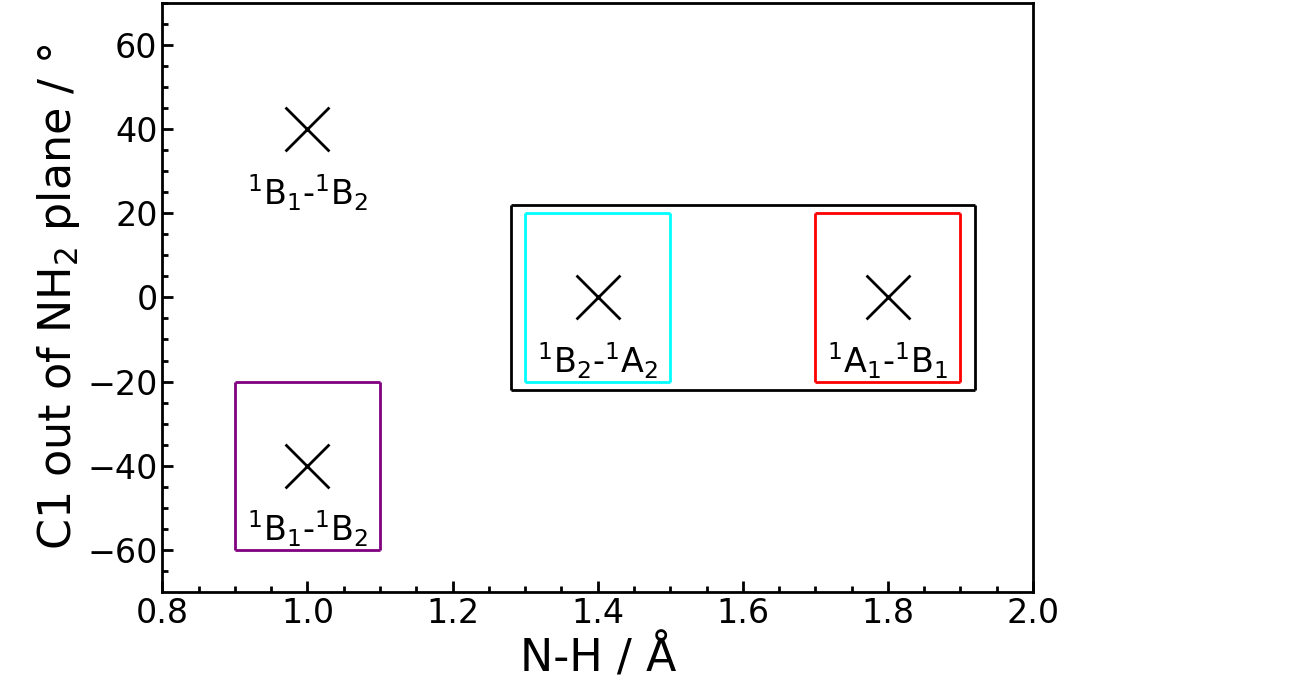
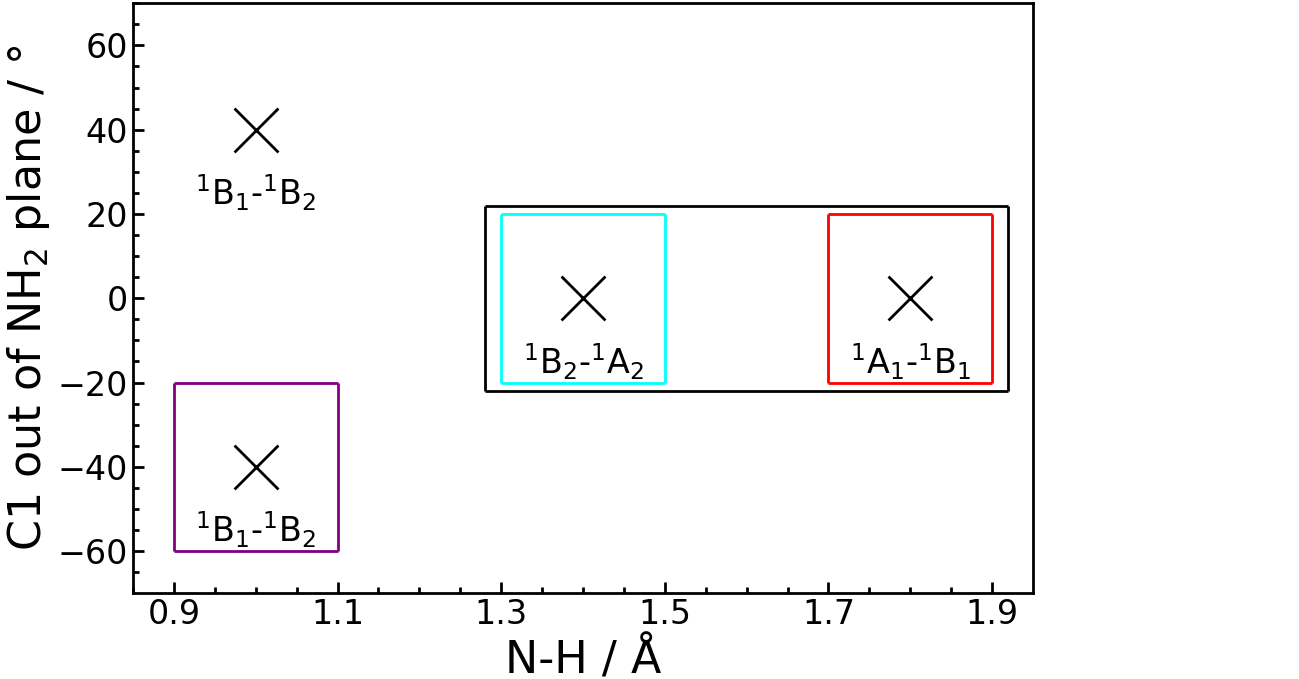
change x ticks

diff --git a/diabatz/analysis/loop/other-loops/plot_double.py b/diabatz/analysis/loop/other-loops/plot_double.py
@@ -34,12 +34,14 @@ ax.vlines(1.9, -60 - dy,  60 + dy, colors="black", linewidth=2)
 ax.set_xlabel("N-H / Å"                   , fontsize=32)
 ax.set_ylabel("C1 out of NH$_2$ plane / °", fontsize=32)
 
-ax.set_xlim(0.8, 2.0)
+ax.set_xlim(0.85, 1.95)
 ax.set_ylim(-70, 70)
+
+ax.set_xticks((0.9, 1.1, 1.3, 1.5, 1.7, 1.9))
 
 ax.minorticks_on()
 
-for side in ("top", "bottom", "left", "right"): ax.spines[side].set_linewidth(1.5)
+for side in ("top", "bottom", "left", "right"): ax.spines[side].set_linewidth(2)
 
 ax.tick_params(direction="in", length=8, width=2, labelsize=24)
 ax.tick_params(direction="in", length=4, width=2, which="minor")

diff --git a/diabatz/analysis/loop/other-loops/plot_single.py b/diabatz/analysis/loop/other-loops/plot_single.py
@@ -34,12 +34,14 @@ ax.vlines(1.9, -20 - dy,  60 + dy, colors="black", linewidth=2)
 ax.set_xlabel("N-H / Å"                   , fontsize=32)
 ax.set_ylabel("C1 out of NH$_2$ plane / °", fontsize=32)
 
-ax.set_xlim(0.8, 2.0)
+ax.set_xlim(0.85, 1.95)
 ax.set_ylim(-70, 70)
+
+ax.set_xticks((0.9, 1.1, 1.3, 1.5, 1.7, 1.9))
 
 ax.minorticks_on()
 
-for side in ("top", "bottom", "left", "right"): ax.spines[side].set_linewidth(1.5)
+for side in ("top", "bottom", "left", "right"): ax.spines[side].set_linewidth(2)
 
 ax.tick_params(direction="in", length=8, width=2, labelsize=24)
 ax.tick_params(direction="in", length=4, width=2, which="minor")

diff --git a/diabatz/analysis/loop/other-loops/plot_individual-x.py b/diabatz/analysis/loop/other-loops/plot_individual-x.py
@@ -40,8 +40,10 @@ ax.vlines(1.9 + dx, -20 - dy,  20 + dy, colors="black", linewidth=2)
 ax.set_xlabel("N-H / Å"                   , fontsize=32)
 ax.set_ylabel("C1 out of NH$_2$ plane / °", fontsize=32)
 
-ax.set_xlim(0.8, 2.0)
+ax.set_xlim(0.85, 1.95)
 ax.set_ylim(-70, 70)
+
+ax.set_xticks((0.9, 1.1, 1.3, 1.5, 1.7, 1.9))
 
 ax.minorticks_on()
 

diff --git a/diabatz/analysis/loop/induced-geometric-phase/plot_loop.py b/diabatz/analysis/loop/induced-geometric-phase/plot_loop.py
@@ -23,8 +23,10 @@ ax.scatter(1.2,  60, marker='<', s=400, c="black")
 ax.set_xlabel("N-H / Å"                   , fontsize=32)
 ax.set_ylabel("C1 out of NH$_2$ plane / °", fontsize=32)
 
-ax.set_xlim(0.8, 2.0)
+ax.set_xlim(0.85, 1.95)
 ax.set_ylim(-70, 70)
+
+ax.set_xticks((0.9, 1.1, 1.3, 1.5, 1.7, 1.9))
 
 ax.minorticks_on()
 
